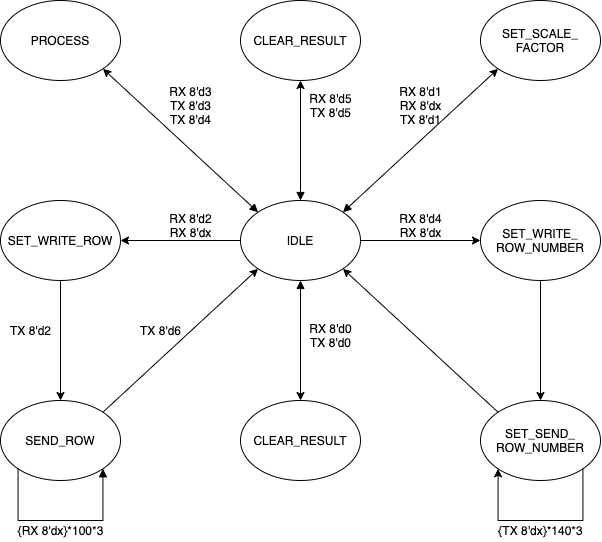
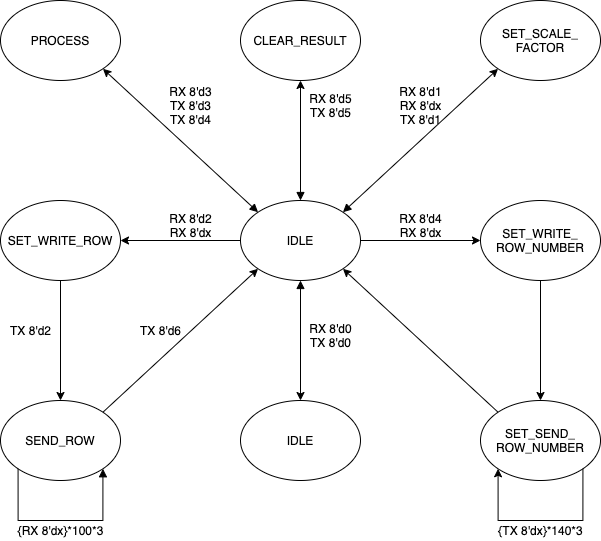
updated diagrams

diff --git a/README.md b/README.md
@@ -1,7 +1,59 @@
 # ELEC4320-Project
 
+This project builds a FPGA implementing bilinear interpolation resizing RGB image from 100x100 to 60x60, 80x80, 120x120, 140x140.
+
+# FPGA Overview
+
+Since communication between PC and FPGA is expected, a Finite State Machine is included to provide state control for other modules. The components:
+
+![](/documentation/components.png)
+
+On the FPGA side,
+1. UART: communicate with the PC side
+1. Finite State Machine (FSM): receive command from UART and change state accordingly. Each state change will trigger execution of other modules
+1. LEDs: state indicator for debugging
+1. Source memory A and B: 100x100xRGBx2 dual port block memory for storing input image, in total providing 4 concurrent access to source memory
+1. Interpolation processor: pipelined interpolation processor
+Result memory: 140x140xRGB block memory for storing result image
+
+On the PC side,
+1. UI: interaction with the FPGA by UART
+
+# FPGA Components and State Diagram
+
+1. UART
+
+    For quick development, the UART verilog code is from http://www.nandland.com.
+
+1. Source memory
+    
+    During bilinear interpolation, one pixel in the result image requires interpolation during the nearest 4 pixels in the source image. To facilitate pipelined computation, two dual port block ram of 100x100 bytes are set up for each RGB channel.
+
+    When receiving source image from UART, both port A of the two dual port memory are used to write incoming bytes concurrently.
+
+1. Result memory
+
+    Since the memory receives one byte at a time, a single port block ram of 140x140 bytes are set up for each RGB channel.
+
+1. FSM implementation
+
+    The FSM needs to coordinate the following events:
+    1. receive image from PC and store to source memory
+    1. receive image resizing scale factor from PC
+    1. start interpolation processor
+    1. send result image to PC
+    1. clear result image memory
+
+    As a result, it includes the following 6 states (including idle) and transitions:
+
+
+![](/documentation/state.png)
+
 # Communication Protocol
-| Code from Processing | FPGA action | FPGA response |
+
+All the state changes are initiated by UART command from the PC, and returns to idle state once the task is performed. The communication protocol is as shown below:
+
+| Command from PC | FPGA action | FPGA response |
 | --- | --- | --- |
 | 8'd0 | reset | 8'd0 |
 | 8'd1 + 8'dx | set scaling factor x<br>0:0.6<br>1:0.8<br>2:1.2<br>3:1.4 | 8'd1 |
@@ -10,11 +62,64 @@
 | 8'd4 + 8'dx | read one row of output image<br>x is #th of row<br>sample: [R0,G0,B0,R1,G1,B1,...] | <3x140 bytes> |
 | 8'd5 | clear result memory | 8'd5 |
 
-# FPGA State Diagram
+# Interpolation Pipeline
 
-# Interpolation Algorithm
+During actual computation, due to timing constraints, a 8 stage pipeline is used as shown below.
 
-TODO
+In the pipeline, dx[8:0] and dy[8:0] are used to hold the destination pixels and range from 0 to the result image dimension. The pipeline will terminate when dx[8] and dx[y] meet the end of the result image dimension.
+
+![](/documentation/pipeline.png)
+
+Meanwhile, since floating point operation is not supported, values related with such operations are stored as integers and enlarged by 100 during computation. When the decimal is required, the values are modulo by 100 to get the decimal part.
+
+# LED Indicators
+
+| # | Purpose |
+| --- | --- |
+| 0 | breathing probe |
+| 1 | uart: tx |
+| 2 | uart: rx |
+| 3 | state: idle |
+| 4 | state: set scale factor |
+| 5 | state: set write row number |
+| 6 | state: set write row |
+| 7 | state: process |
+| 8 | state: set send row number |
+| 9 | state: send row |
+
+# Performance
+
+- FPGA clock: 10MHz
+- UART baud rate: 230400
+
+- Theoretical time to send source image to FPGA:
+	- Total bytes to transfer: 100x100x3 (image) + 2x100 (command) = 30200 bytes
+	- Highest transfer rate: 28800 bytes/s
+	- Expected time: 1.05 seconds
+    - Actual time: ~3 seconds
+    - Possible reason: potential cause would be slowing buffering and response waiting on the PC side as the FPGA is only passively receiving image
+
+- Theoretical time to receive result image from FPGA:
+	- Total bytes to transfer: 140x140x3 (image) + 2x100 (command) = 59000 bytes
+	- Highest transfer rate: 28800 bytes/s
+	- Expected time: 2.05 seconds
+    - Actual time: ~5 seconds
+
+- Theoretical time to process an image (from 100x100 to 140x140):
+	- Stages needed: 140x140 + (8-1) = 19607
+	- Per stage time: 1/10MHz = 100ns
+	- Expected time: 19607x10 = 196070ns = 196ms = 0.2s
+    - Actual time: similar
+
+# Interpolation Sample
+
+An apple is interpolated from 100x100 to 140x140:
+![](/documentation/good_apple_140.png)
+
+# Corrupted sample
+
+When the FPGA is overclocked from 10MHz to 100MHz (which clearly violates the timing constraint), part of the result image is corrupted:
+![](/documentation/corrupted_apple_140.png)
 
 # Milestones
 | Task | Description | Progress |
@@ -24,19 +129,19 @@ TODO
 | HW uart | can communicate with host | ✅ |
 | HW FSM | state control | ✅ |
 | HW image memory | source_image_[R\|G\|B]<br>result_image_[R\|G\|B] | ✅ |
-| HW receive, copy, send image | test memory access capability from host | ✅ | HW interpolate | compute interpolate parameters<br>can use verilog sim | |
-| HW interpolate | design pipeline | |
-| HW interpolate | receive interpolate parameters | |
-| HW interpolate image | compute | |
-| Report and Slide | | |
+| HW receive, copy, send image | test memory access capability from host | ✅ | HW interpolate | compute interpolate parameters<br>can use verilog sim | ✅ |
+| HW interpolate | design pipeline | ✅ |
+| HW interpolate | receive interpolate parameters | ✅ |
+| HW interpolate image | compute | ✅ |
+| Report and Slide | | ✅ |
 
 # Misc
-| Task | Description |
-| --- | --- |
-| check mem | mem has a read latency of 2 cycles, what's the impact? |
-| UI image border | border currently overlaps with image |
-| HW | break top.v into modules |
-| UART | try speed faster than 115200 |
-| UI | one button finish all |
-| UI | image hot reload |
-| UI | support reset |
+| Task | Description | Progress |
+| --- | --- | --- |
+| check mem | mem has a read latency of 2 cycles, what's the impact? | |
+| UI image border | border currently overlaps with image | |
+| HW | break top.v into modules | ✅ |
+| UART | try speed faster than 115200 | ✅ |
+| UI | one button finish all | |
+| UI | image hot reload | ✅ |
+| UI | support reset | |
